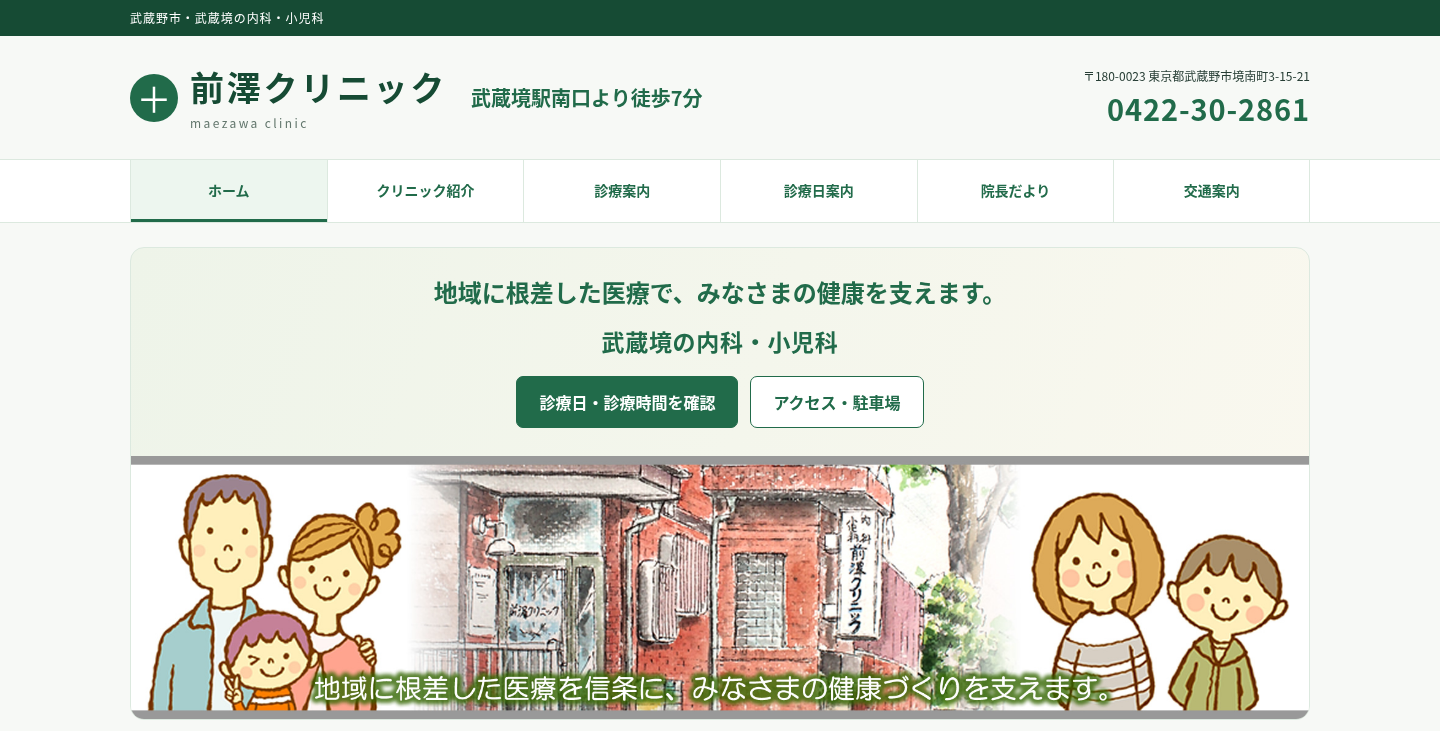
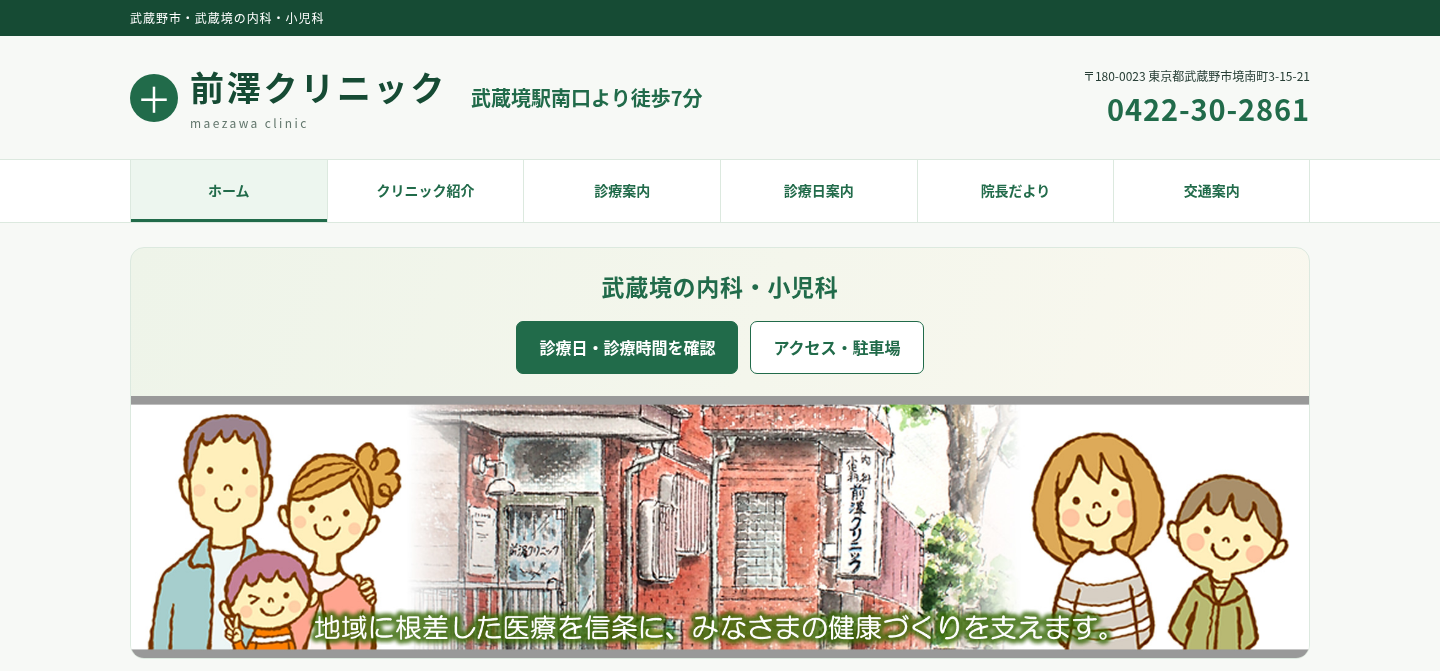
Simplify homepage review hero by removing catchphrase

diff --git a/README.md b/README.md
@@ -6,7 +6,7 @@ ZIPをすべて展開し、`maezawa-responsive/index.html` をブラウザで開
 
 ## TOPのみの確認版
 
-トップページだけ、添付見本に合わせた中央揃えと徒歩7分の案内を調整しました。キャッチコピーは見本に合わせて今回の確認版に入れています。
+トップページだけ、中央揃えと徒歩7分の案内を調整しました。キャッチコピーを削除し、「武蔵境の内科・小児科」と案内ボタンの余白を詰めた確認版です。
 
 [PC確認画像](preview/home-desktop-top-review.png) / [スマホ確認画像](preview/home-mobile-top-review.png)
 
